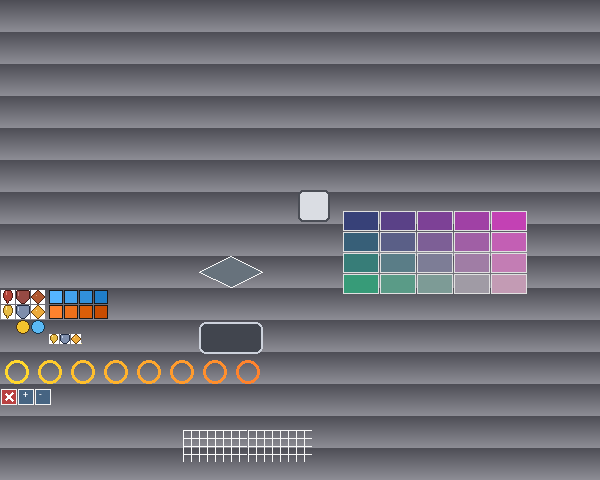
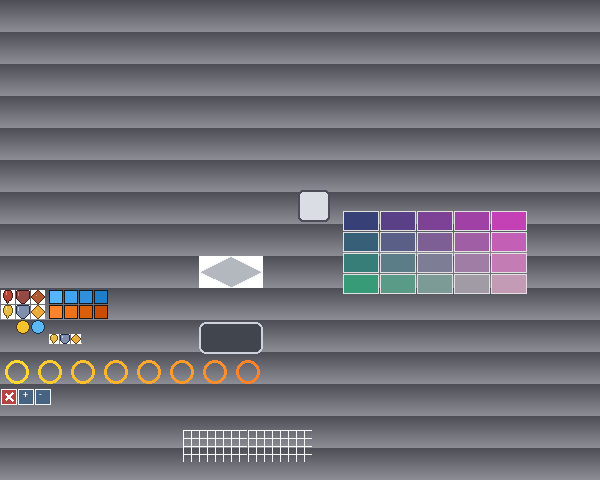
Draw the tile marker at map resolution, and fit units to their boxes
The marker under the pointer came out of a 64x32 slot of the icon sheet, so at
the zoom this build reaches it was a five-times magnification of a stair-stepped
outline. Worse, every pixel of that slot was opaque: the diamond was drawn onto
the sheet's own grey background, so cutting it out took the background with it
and the marker showed as a square box over the map (#57). It is a 300x150 sprite
now, transparent outside the diamond, with a soft dark backing so it holds
against pale terrain.

Units in the city window were drawn at a fixed 0.82 that took no account of the
window's scale, so at the default 1.5 the boxes grew and the units in them did
not, and each sat in the corner of its cell rather than in it (#53). They are
sized to the cell they are given, they grow with the window, and they are
centred.

Regenerating the sheets to add the marker showed the generator now reproduces
CITIES.png exactly, so the hand-patched player colours are gone, and turned up
one fault in the resource icons: the trade arrow was drawn after them and clipped
the small trade icon. They are drawn last now.

Claude-Session: https://claude.ai/code/session_01QXFvyyXDZLnfAxgXhrWa4A

Changed region(s): [[0.33, 0.5312, 0.45, 0.625]]

diff --git a/scripts/build_standalone_sheets.py b/scripts/build_standalone_sheets.py
@@ -343,11 +343,6 @@ def build_icons() -> None:
             x = 49 + 15 * column
             draw.rectangle((x, row_y, x + 13, row_y + 13), fill=tuple(max(0, c - 18 * column) if i < 3 else c for i, c in enumerate(color)), outline=(25, 25, 25, 255))
 
-    # Food, shield and trade icons where the city window actually reads them. The
-    # rows above put art at x=49 and up, but Civ2Interface takes the large and loss
-    # icons from x=1, 16 and 31, which was bare sheet background: the food and trade
-    # bars, the food storage box and the production shield box all drew grey blanks.
-    resource_icons.draw_all(lambda x, y, rgba: sheet.putpixel((x, y), rgba))
 
     draw.rectangle((1, 389, 16, 404), fill=(185, 65, 65, 255), outline=(245, 245, 245, 255))
     draw.line((5, 393, 12, 400), fill=(255, 255, 255, 255), width=2)
@@ -364,7 +359,41 @@ def build_icons() -> None:
         for column in range(5):
             x, y = 343 + 37 * column, 211 + 21 * row
             draw.rectangle((x, y, x + 35, y + 19), fill=(55 + 35 * column, 65 + 30 * row, 120 + 15 * column, 255), outline=(225, 225, 225, 255))
+    # The view-piece cursor. Drawn onto a transparent scratch tile and pasted, so
+    # the corners of its 64x32 slot stay clear: cutting the diamond straight out of
+    # the sheet took the background with it and the cursor showed as a grey box.
+    marker = Image.new("RGBA", (64, 32), (0, 0, 0, 0))
+    ImageDraw.Draw(marker).polygon([(0, 16), (32, 0), (63, 16), (32, 31)],
+                                   outline=(245, 245, 245, 255), fill=(40, 55, 70, 90))
+    sheet.paste(marker, (199, 256))
+
+    # Last, so nothing is drawn over them: the trade arrow above used to clip the
+    # small trade icon.
+    resource_icons.draw_all(lambda x, y, rgba: sheet.putpixel((x, y), rgba))
+
     sheet.save(OUT / "ICONS.png", optimize=True)
+    build_view_piece_cursor()
+
+
+def build_view_piece_cursor() -> None:
+    """The marker drawn on the tile under the pointer.
+
+    It came out of the 64x32 ICONS slot, so at the zoom this build reaches it was
+    a five-times magnification of a stair-stepped outline, inside an opaque square
+    that covered the map around it. This is the same diamond at map-art
+    resolution with a soft dark backing to hold it against pale terrain.
+    """
+    w, h, ss = 300, 150, 4
+    big = Image.new("RGBA", (w * ss, h * ss), (0, 0, 0, 0))
+    draw = ImageDraw.Draw(big)
+    points = [(0, h * ss // 2), (w * ss // 2, 0), (w * ss - 1, h * ss // 2), (w * ss // 2, h * ss - 1)]
+
+    draw.line(points + [points[0]], fill=(15, 20, 28, 210), width=9 * ss // 2)
+    draw.line(points + [points[0]], fill=(248, 250, 252, 255), width=3 * ss // 2)
+
+    cursor = big.resize((w, h), Image.LANCZOS)
+    cursor.save(OUT / "VIEWPIECE.png", optimize=True)
+
 
 
 def build_backgrounds() -> None:

diff --git a/RaylibUI/RunGame/GameControls/CityControls/UnitsPresentBox.cs b/RaylibUI/RunGame/GameControls/CityControls/UnitsPresentBox.cs
@@ -49,7 +49,7 @@ public class UnitsPresentBox : Listbox
             {
                 Elements = [
                     new ListboxGroupElement { Unit = unit, Game = cityWindow.CurrentGameScreen.Game,
-                        ScaleIcon = ImageUtils.ZoomScale(0) * 0.82f},
+                        ScaleIcon = UnitScaleFor(cityWindow, properties)},
                     new ListboxGroupElement { Text = ShortCityName(unit.HomeCity), Xoffset = 0, 
                         HorizontalAlignment = HorizontalAlignment.Center, VerticalAlignment = VerticalAlignment.Bottom }],
                 Height = (int)Math.Ceiling(properties.Box.Height / properties.Rows * cityWindow.Scale)
@@ -107,5 +107,25 @@ public class UnitsPresentBox : Listbox
         }
 
         return city.Name.Length < 3 ? city.Name : city.Name[..3];
+    }
+
+    /// <summary>
+    /// How large to draw a unit in one cell of this box. The old value was a fixed
+    /// 0.82 that took no account of the city window's scale, so at the default 1.5
+    /// the box grew and the units in it did not. This fills the cell it is given
+    /// and grows with the window.
+    /// </summary>
+    private static float UnitScaleFor(CityWindow cityWindow, UnitBox properties)
+    {
+        var unit = cityWindow.MainWindow.ActiveInterface.UnitImages.UnitRectangle;
+        if (unit.Width <= 0 || unit.Height <= 0 || properties.Rows <= 0 || properties.Columns <= 0)
+        {
+            return cityWindow.Scale;
+        }
+
+        var cellWidth = properties.Box.Width / properties.Columns;
+        var cellHeight = properties.Box.Height / properties.Rows;
+        var fit = Math.Min(cellWidth / unit.Width, cellHeight / unit.Height);
+        return Math.Max(0.1f, fit * cityWindow.Scale);
     }
 }

diff --git a/RaylibUI/RunGame/GameControls/CityControls/UnitSupportBox.cs b/RaylibUI/RunGame/GameControls/CityControls/UnitSupportBox.cs
@@ -46,7 +46,7 @@ public class UnitSupportBox : Listbox
         {
             var group = new ListboxGroup()
             {
-                Elements = [new ListboxGroupElement { Unit = unit, Game = cityWindow.CurrentGameScreen.Game, ScaleIcon = ImageUtils.ZoomScale(0) * 0.82f}],
+                Elements = [new ListboxGroupElement { Unit = unit, Game = cityWindow.CurrentGameScreen.Game, ScaleIcon = UnitScaleFor(cityWindow, properties)}],
                 Height = (int)Math.Ceiling(properties.Box.Height / properties.Rows * cityWindow.Scale)
             };
             groups.Add(group);
@@ -86,5 +86,25 @@ public class UnitSupportBox : Listbox
         }
 
         CityUnitMenu.Show(_cityWindow, units[args.Index]);
+    }
+
+    /// <summary>
+    /// How large to draw a unit in one cell of this box. The old value was a fixed
+    /// 0.82 that took no account of the city window's scale, so at the default 1.5
+    /// the box grew and the units in it did not. This fills the cell it is given
+    /// and grows with the window.
+    /// </summary>
+    private static float UnitScaleFor(CityWindow cityWindow, UnitBox properties)
+    {
+        var unit = cityWindow.MainWindow.ActiveInterface.UnitImages.UnitRectangle;
+        if (unit.Width <= 0 || unit.Height <= 0 || properties.Rows <= 0 || properties.Columns <= 0)
+        {
+            return cityWindow.Scale;
+        }
+
+        var cellWidth = properties.Box.Width / properties.Columns;
+        var cellHeight = properties.Box.Height / properties.Rows;
+        var fit = Math.Min(cellWidth / unit.Width, cellHeight / unit.Height);
+        return Math.Max(0.1f, fit * cityWindow.Scale);
     }
 }

diff --git a/RaylibUI/BasicTypes/Panel/ListboxControlGroup.cs b/RaylibUI/BasicTypes/Panel/ListboxControlGroup.cs
@@ -69,7 +69,16 @@ public class ListboxControlGroup : ControlGroup
             }
             else if (element.Unit is not null)
             {
-                Controls.Add(new UnitDisplay(controller, element.Unit, element.Game!, new(0, 0), _active, element.ScaleIcon, true));
+                // Centre the unit in the cell it was given. It used to be pinned to
+                // the corner, so a sprite smaller than its cell sat up and to the
+                // left of where the box implied it was.
+                var display = new UnitDisplay(controller, element.Unit, element.Game!, new(0, 0),
+                    _active, element.ScaleIcon, true);
+                var cellWidth = element.Width ?? display.Width;
+                var cellHeight = group.Height ?? display.Height;
+                display.Location = new(Math.Max(0, (cellWidth - display.Width) / 2f),
+                    Math.Max(0, (cellHeight - display.Height) / 2f));
+                Controls.Add(display);
             }
         }
 

diff --git a/Civ2Gold/Civ2GoldInterface.cs b/Civ2Gold/Civ2GoldInterface.cs
@@ -141,7 +141,10 @@ public class Civ2GoldInterface(IMain main) : Civ2Interface(main)
             .ToArray<IImageSource>());
         PicSources.Add("riverMouth", Enumerable.Range(0, 4).Select(col =>
             new BitmapStorage("TERRAIN2", new Rectangle(1 + 65 * col, 331, 64, 32))).ToArray<IImageSource>());
-        PicSources.Add("viewPiece", [new BitmapStorage("ICONS", new Rectangle(199, 256, 64, 32))]);
+        // The tile marker at map-art resolution rather than a 64x32 slot of the icon
+        // sheet, which at this build's zoom was a five-times magnification of a
+        // stair-stepped outline inside an opaque square (#57).
+        PicSources.Add("viewPiece", [new BitmapStorage("VIEWPIECE")]);
         PicSources.Add("gridlines", [new BitmapStorage("ICONS", new Rectangle(183, 430, 64, 32))]);
         PicSources.Add("gridlines,visible", [new BitmapStorage("ICONS", new Rectangle(248, 430, 64, 32))]);
         PicSources.Add("battleAnim", Enumerable.Range(0, 8).Select(col =>

diff --git a/scripts/generate_asset_manifest.py b/scripts/generate_asset_manifest.py
@@ -64,7 +64,8 @@ def attribution(relative: str) -> tuple[str, str, str, str, str]:
             "scripts/build_civilopedia_text.py",
         )
     if relative.startswith("RaylibUI/FOSSart/Standalone/") and Path(relative).name in {
-        "CITIES.png", "ICONS.png", "TERRAIN1.png", "TERRAIN2.png", "UNITS.png"
+        "CITIES.png", "ICONS.png", "TERRAIN1.png", "TERRAIN2.png", "UNITS.png",
+        "VIEWPIECE.png"
     }:
         return (
             "generated-layout-adapter",
